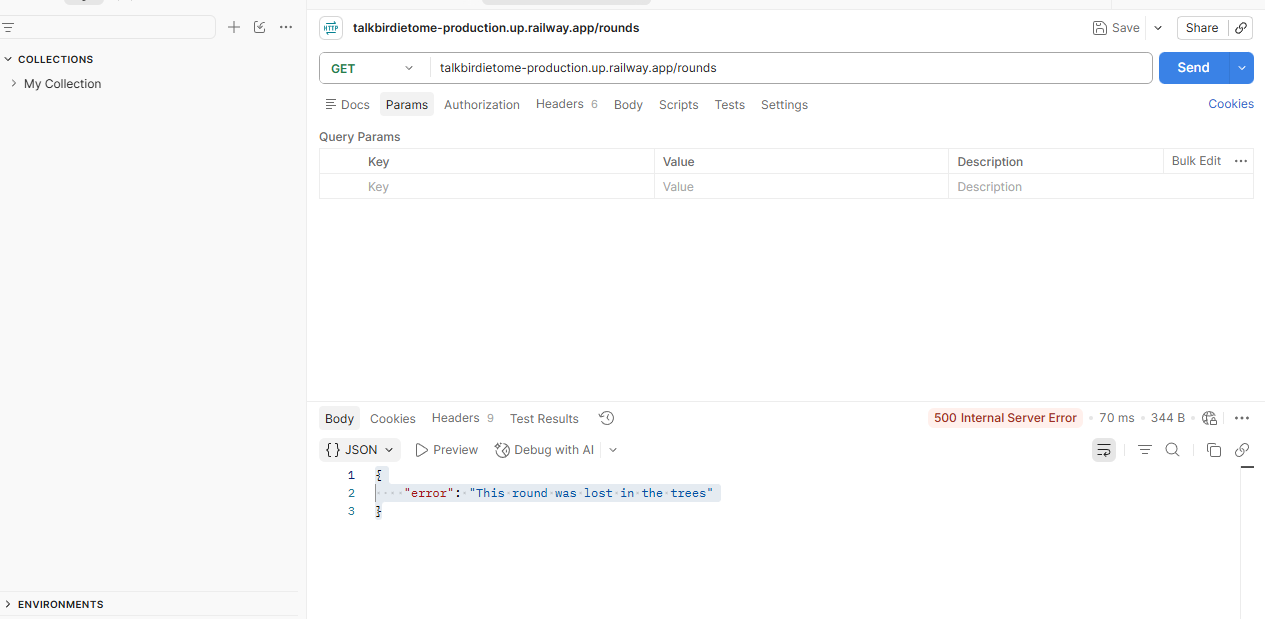
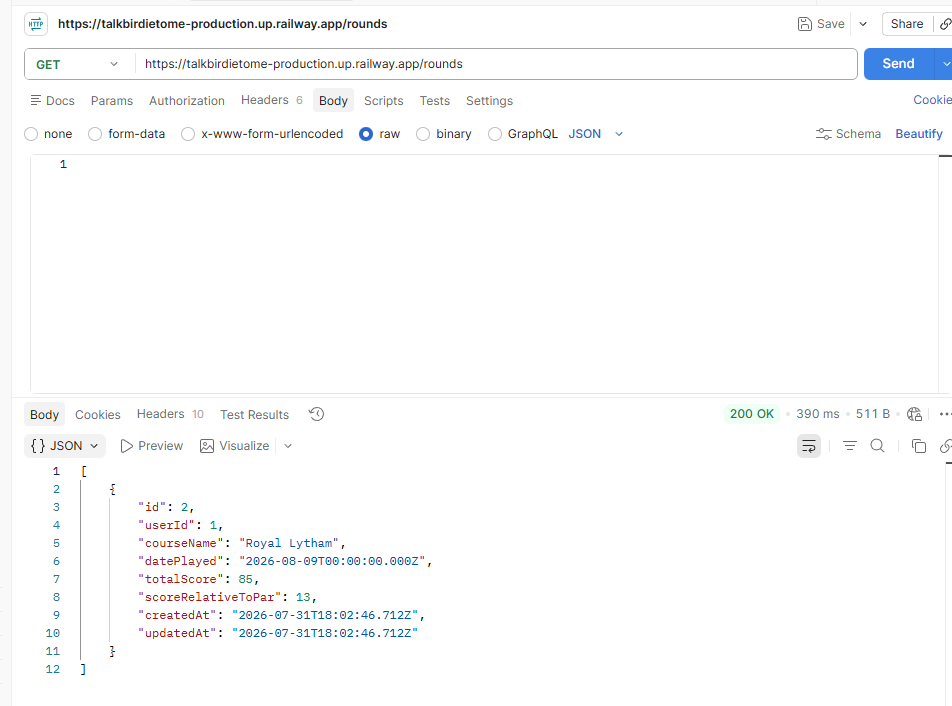
Postman testing now complete and a generic update added to the readme

diff --git a/README.md b/README.md
@@ -76,3 +76,33 @@ The following service methods are fully tested:
 - createRound - Creates round
 - updateRound - Updates round
 - deleteRound - Deletes round
+
+## Backend Deployment Status
+
+The backend API is now deployed and reachable via HTTPS on Railway
+
+Base URL - https://talkbirdietome-production.up.railway.app
+
+### GET /rounds
+
+Returns all ronds stored in the Database
+
+![getRounds](./assets/railway-rounds-get.PNG)
+
+### POST /rounds
+
+Creates a new round
+
+![getRounds](./assets/railway-rounds-post.PNG)
+
+### PUT /rounds/{id}
+
+Updates an existing round
+
+![putRounds](./assets/railway-rounds-put.PNG)
+
+### DELETE /rounds/{id}
+
+Deletes a round
+
+![deleteRounds](./assets/railway-rounds-delete.PNG)
